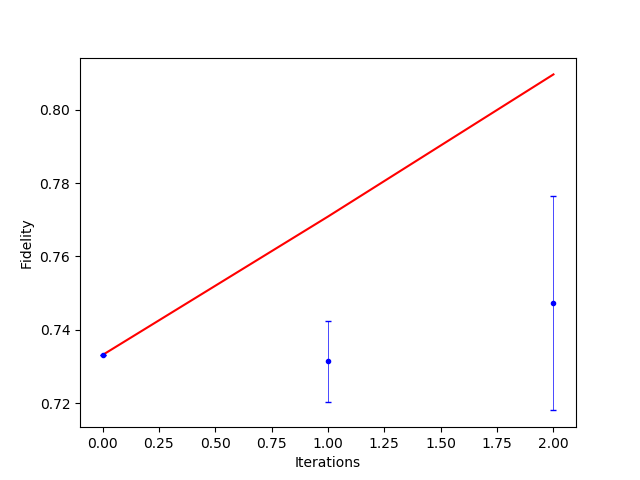
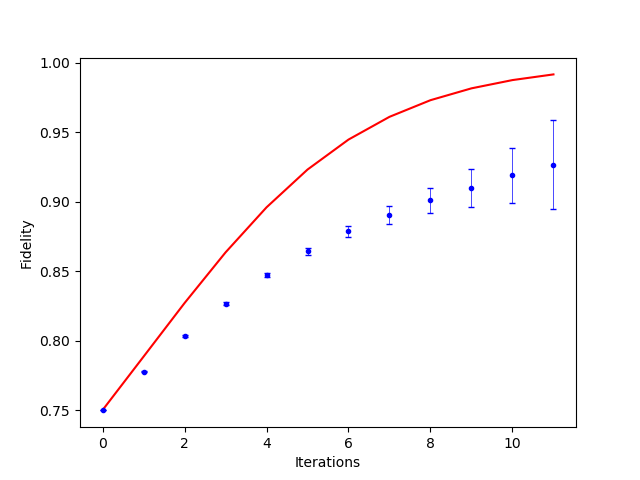
fixed typo

diff --git a/run_sim.py b/run_sim.py
@@ -2,44 +2,43 @@ from simulation import *
 from channel_simulation import generate_sim_samples
 import numpy as np
 
-def run_prot_A_sim(num_trails, num_sample_per_trial, max_sample_remain, set_iter=10, plot_name='plot'):
+def run_prot_A_sim(num_trials, num_sample_per_trial, max_sample_remain, set_iter=10, plot_name='plot'):
     '''
-    Run simulation on protocol A with trails
-    :param num_trails: number of simulations to run
+    Run simulation on protocol A with trials
+    :param num_trials: number of simulations to run
     :param num_sample_per_trial: sample size
-    :param max_sample_remain: maximum number of samples to keep for each trail (ending condition)
-    :param set_iter: Because iteration in each trail may vary, take the majority to prevent varying array size
+    :param max_sample_remain: maximum number of samples to keep for each trial (ending condition)
+    :param set_iter: Because iteration in each trial may vary, take the majority to prevent varying array size
     :param plot_name: name of the output fidelity plot
     :return:
     '''
-    trail_avg = np.array([])
-    # printProgressBar(0, num_trails, prefix='Trails:', suffix='Complete', length=50)
-    for i in range(num_trails):
+    trial_avg = np.array([[]])
+    printProgressBar(0, num_trials, prefix='trials:', suffix='Complete', length=50)
+    for i in range(num_trials):
         samples = generate_sim_samples(num_sample_per_trial)
         purified, f_hist = protocol_A_simulation(samples, threshold=max_sample_remain)
-        # printProgressBar(i + 1, num_trails, prefix='Trails:', suffix='Complete', length=50)
-        print(len(f_hist['avg']))
-        if i == 0:
-            trail_avg = np.array(f_hist['avg'])
-        if i == 1:
-            trail_avg = np.stack((trail_avg, np.array(f_hist['avg'])))
-        if not len(f_hist) == set_iter:
+        # printProgressBar(i + 1, num_trials, prefix='trials:', suffix='Complete', length=50)
+        # print("trial: ", i)
+        # print(len(f_hist['avg']))
+        if len(f_hist['avg']) != set_iter:
             continue
+        if trial_avg.size == 0:
+            trial_avg = np.array([f_hist['avg']])
         else:
-            trail_avg = np.concatenate((trail_avg, np.array([f_hist['avg']])), axis=0)
+            trial_avg = np.concatenate((trial_avg, np.array([f_hist['avg']])), axis=0)
 
-    trails_avg = list(np.mean(trail_avg, axis=0))
-    trails_std = list(np.std(trail_avg, axis=0))
-    F_recur = recurrent_fidelity(trails_avg[0], len(trails_avg) - 1)
-    plot_fidelities(trails_avg, F_recur, F_sim_std=trails_std, plot_name=plot_name)
-    return trails_avg, trails_std
+    trials_avg = list(np.mean(trial_avg, axis=0))
+    trials_std = list(np.std(trial_avg, axis=0))
+    F_recur = recurrent_fidelity(trials_avg[0], len(trials_avg) - 1)
+    plot_fidelities(trials_avg, F_recur, F_sim_std=trials_std, plot_name=plot_name)
+    return trials_avg, trials_std
 
 
 if __name__ == "__main__":
     # Simulate protocol A
-    num_trails = 100
+    num_trials = 100
     num_sample = 500000
-    max_sample_remain = 1
-    avg, std = run_prot_A_sim(num_trails, num_sample, max_sample_remain, set_iter=12, plot_name='fidelity_iter')
+    max_sample_remain = 10
+    avg, std = run_prot_A_sim(num_trials, num_sample, max_sample_remain, set_iter=12, plot_name='fidelity_iter')
     print("Average fidelity: {}".format(avg))
     print("Std on fidelity: {}".format(std))
